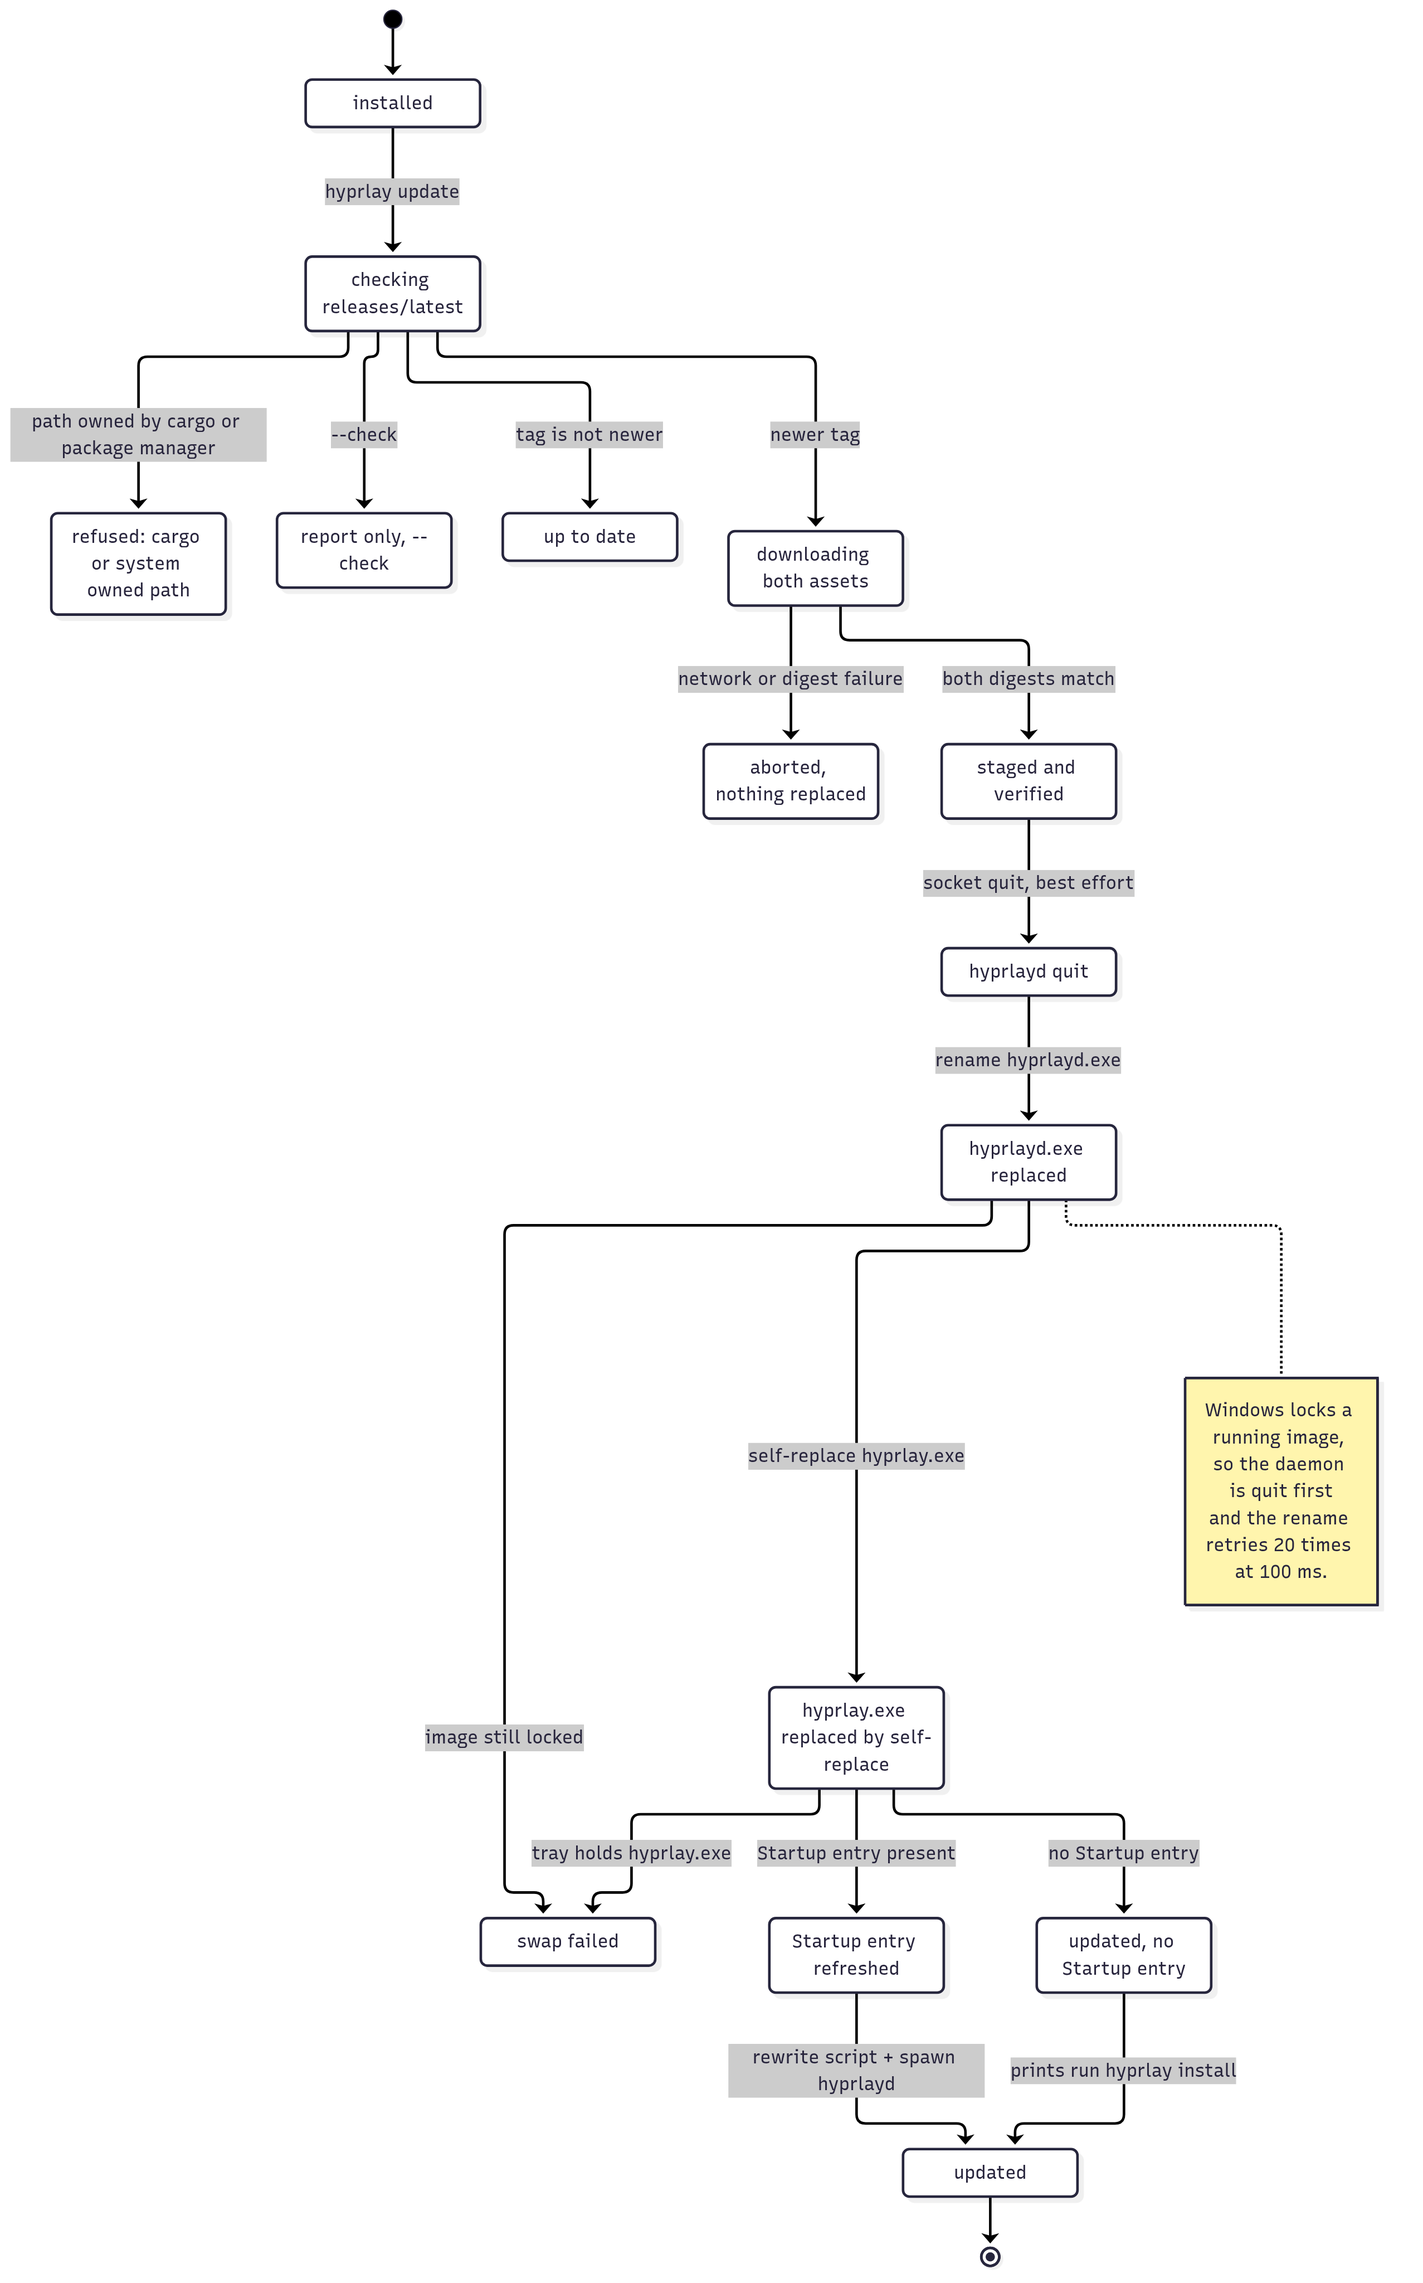
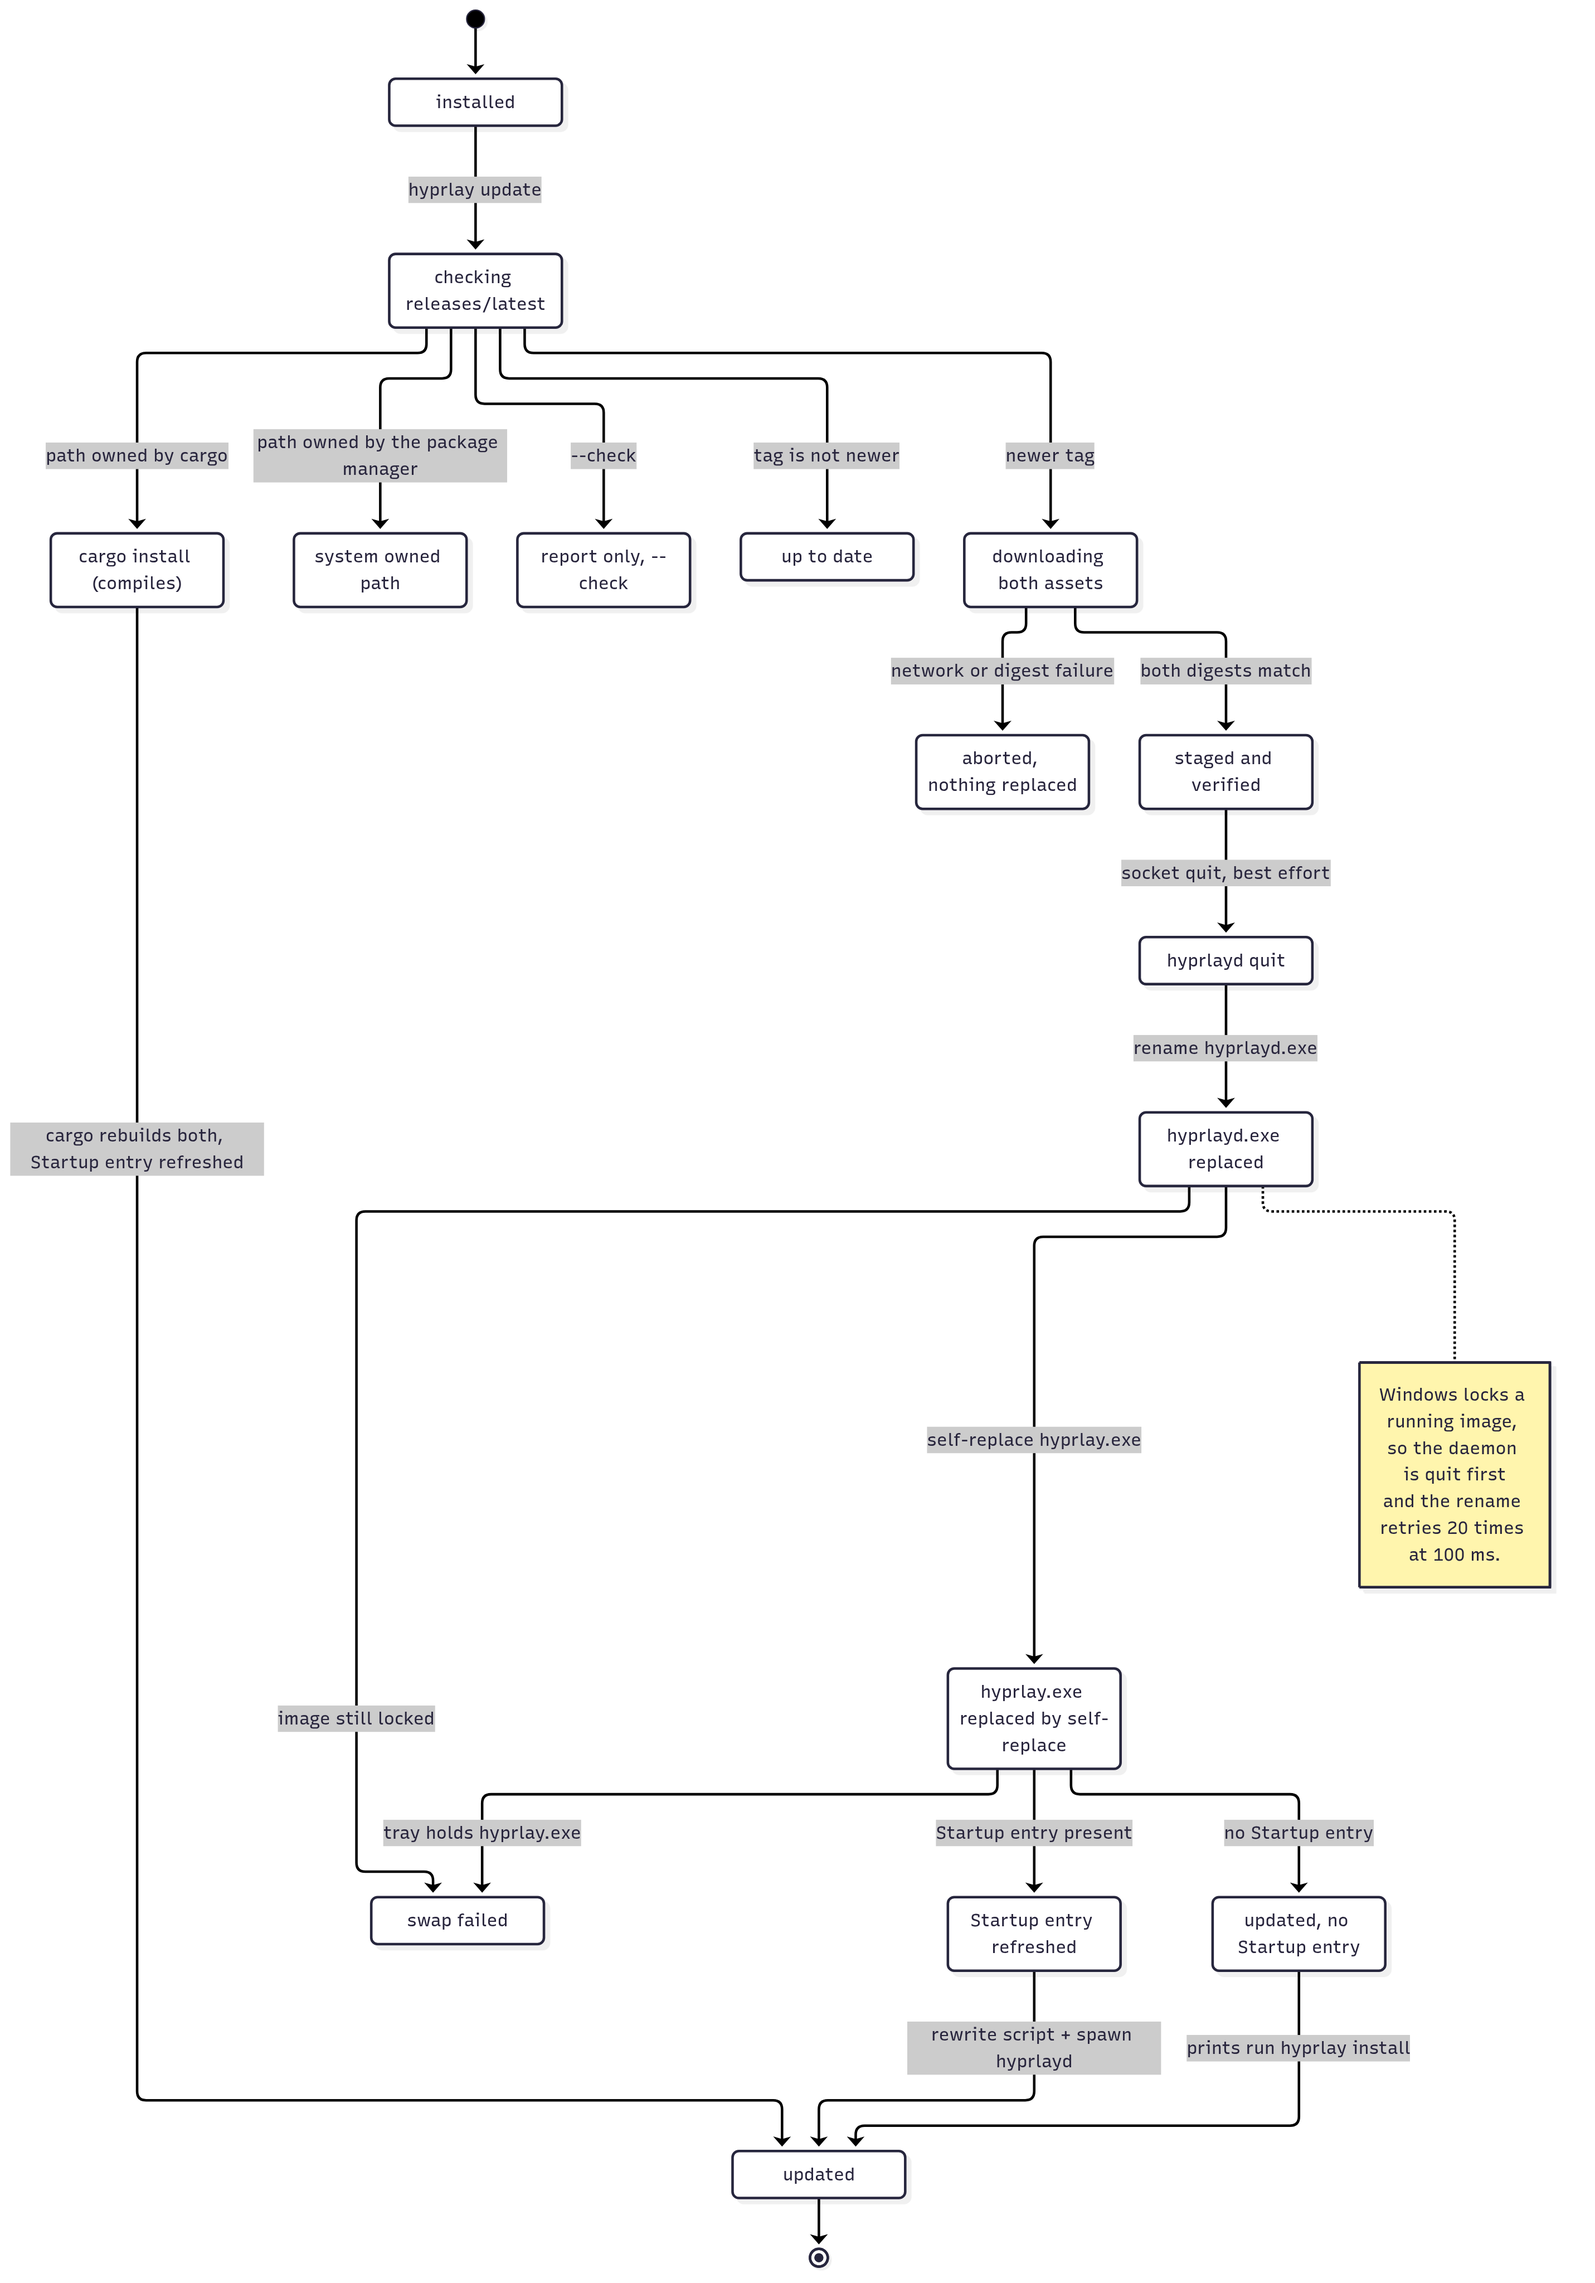
docs: document the cargo update path
The update diagrams branch on the install kind, and the changelog records that
`hyprlay update` runs a cargo install when cargo owns the binary.

diff --git a/CHANGELOG.md b/CHANGELOG.md
@@ -5,6 +5,7 @@
 ### CLI
 
 - Added `hyprlay update` to install the latest release
+- `hyprlay update` now runs a cargo install when hyprlay was installed by cargo
 
 ### Upgrading
 
